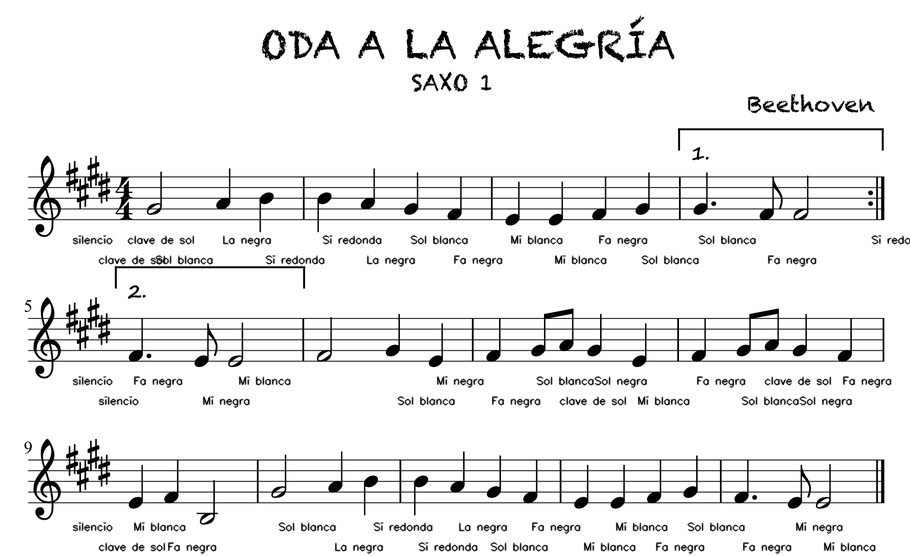
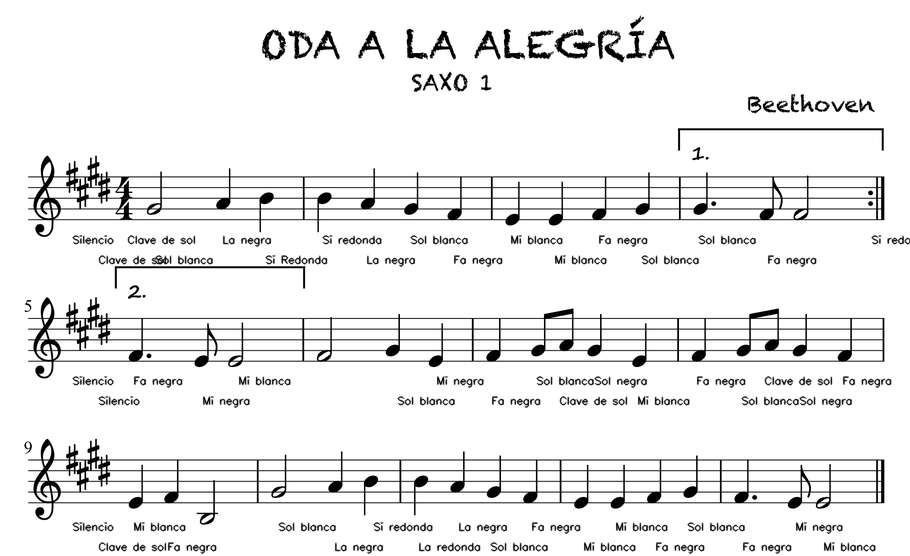
control entrada de notas

diff --git a/app/pygame_funcs/pop_up/pop_up.py b/app/pygame_funcs/pop_up/pop_up.py
@@ -2,26 +2,33 @@ import tkinter as tk
 
 
 def save(root, pentagrama, nota, entries):
-    i:int = 0
+    i: int = 0
     for var in vars(nota).keys():
         if var != "rectangulo" and var != "pentagrama":
             value = entries[i].get()
             if value.isdecimal():
                 value = int(value)
+            else:
+                value = value.capitalize()
+                if var == "figura" and value not in ["Blanca", "Corchea", "Redonda", "Negra"]\
+                        or var == "nota" and value not in ["Do", "Re", "Mi", "Fa", "Sol", "La", "Si", "Silencio", "Clave de sol", "Otra figura"]:
+                    value = getattr(nota, var)
             pentagrama.cambiar_nota(nota, var, value)
             i += 1
     root.destroy()
 
-def remove(root, partitura, index:int):
+
+def remove(root, partitura, index: int):
     partitura.borrar_nota(index)
     root.destroy()
+
 
 def onKeyPress(event, root, pentagrama, nota, entries):
     if event.keysym == "Return":
         save(root, pentagrama, nota, entries)
 
 
-def open_popup(partitura, index:int):
+def open_popup(partitura, index: int):
 
     nota = partitura.notas[index]
     pentagrama = nota.pentagrama
@@ -33,25 +40,29 @@ def open_popup(partitura, index:int):
 
     labels = []
     entries = []
-    i:int = 0
+    i: int = 0
 
     for var, value in vars(nota).items():
         if var != "rectangulo" and var != "pentagrama":
-            labels.append(tk.Label(root ,text = var).grid(row = i,column = 0))
+            labels.append(tk.Label(root, text=var).grid(row=i, column=0))
             entry = tk.Entry(root)
-            entry.grid(row = i, column = 1)
+            entry.grid(row=i, column=1)
             entry.insert(0, value)
             if i == 0:
                 entry.focus_force()
             entries.append(entry)
-            i+=1
-    button_borrar = tk.Button(root, text="Borrar nota", padx = 19, pady = 5, command = lambda: remove(root, partitura, index), background="red")
-    button_borrar.grid(row = i, column = 0, columnspan = 3)
-    button_guardar = tk.Button(root, text="Guardar", padx = 19, pady = 5, command = lambda: save(root, pentagrama, nota, entries), background="green")
-    button_guardar.grid(row = i+1, column = 0, columnspan = 3)
-    root.bind('<KeyPress>', lambda event: onKeyPress(event, root, pentagrama, nota, entries))
+            i += 1
+    button_borrar = tk.Button(root, text="Borrar nota", padx=19, pady=5, command=lambda: remove(
+        root, partitura, index), background="red")
+    button_borrar.grid(row=i, column=0, columnspan=3)
+    button_guardar = tk.Button(root, text="Guardar", padx=19, pady=5, command=lambda: save(
+        root, pentagrama, nota, entries), background="green")
+    button_guardar.grid(row=i+1, column=0, columnspan=3)
+    root.bind('<KeyPress>', lambda event: onKeyPress(
+        event, root, pentagrama, nota, entries))
 
     root.mainloop()
+
 
 def menu_principal():
     pass

diff --git a/app/lectura_partituras/functions/diferenciar_figuras.py b/app/lectura_partituras/functions/diferenciar_figuras.py
@@ -184,11 +184,11 @@ def diferenciar_figuras(figura:list, posiciones_cuadrado:list, posiciones_rectan
     if  altura >= altura_pentagrama:
         # se quita las claves de sol, el tiempo, las lineas verticales
         if posiciones_cuadrado[3] - posiciones_cuadrado[2] > 1/3 * altura:
-            return Nota("clave de sol", 0, posiciones_rectangulo)
-        return Nota("otra figura", 0, posiciones_rectangulo)
+            return Nota("Clave de sol", 0, posiciones_rectangulo)
+        return Nota("Otra figura", 0, posiciones_rectangulo)
 
     elif altura >= 0.5 * (altura_pentagrama):
-        return Nota("silencio", 0, posiciones_rectangulo)
+        return Nota("Silencio", 0, posiciones_rectangulo)
 
     punto_medio:float = posiciones_cuadrado[0] + (posiciones_cuadrado[1] - posiciones_cuadrado[0]) / 2
 

diff --git a/app/musica/musica.py b/app/musica/musica.py
@@ -58,9 +58,9 @@ def main_musica():
         posiciones = nota.rectangulo
         pygame.draw.rect(screen, RED, pygame.Rect(posiciones[2] - 5,posiciones[0] - 5,posiciones[3] - posiciones[2] + 10,posiciones[1] - posiciones[0] + 10), 2)
         pygame.display.update()
-        if nota.nota == "silencio":
+        if nota.nota == "Silencio":
             time.sleep(0.5)
-        elif nota.nota != "clave de sol" and nota.nota != "otra figura":
+        elif nota.nota != "Clave de sol" and nota.nota != "Otra figura":
             frec = frecuencia(NOTAS_MUSICALES[nota.nota] + 1, nota.octava)   
             if nota.figura.lower() == "negra":
                 duracion = 0.5

diff --git a/app/pygame_funcs/main_pygame.py b/app/pygame_funcs/main_pygame.py
@@ -17,7 +17,7 @@ def actualizar_partitura(partitura:Partitura, PATH:str, complete_path:str):
             posiciones = nota.rectangulo
             org = (posiciones[2] + (abs(posiciones[3] - posiciones[2])) //
                             2, pentagrama.posiciones[-1] - 20*(count % 2)-5)
-            if nota.nota != "otra figura":
+            if nota.nota != "Otra figura":
                 image_rectangulos = cv.putText(
                     image_rectangulos, nota.nota + " " + str(nota.figura), org, cv.FONT_HERSHEY_SIMPLEX, 0.35, 0, 1, cv.LINE_AA)
             count += 1
